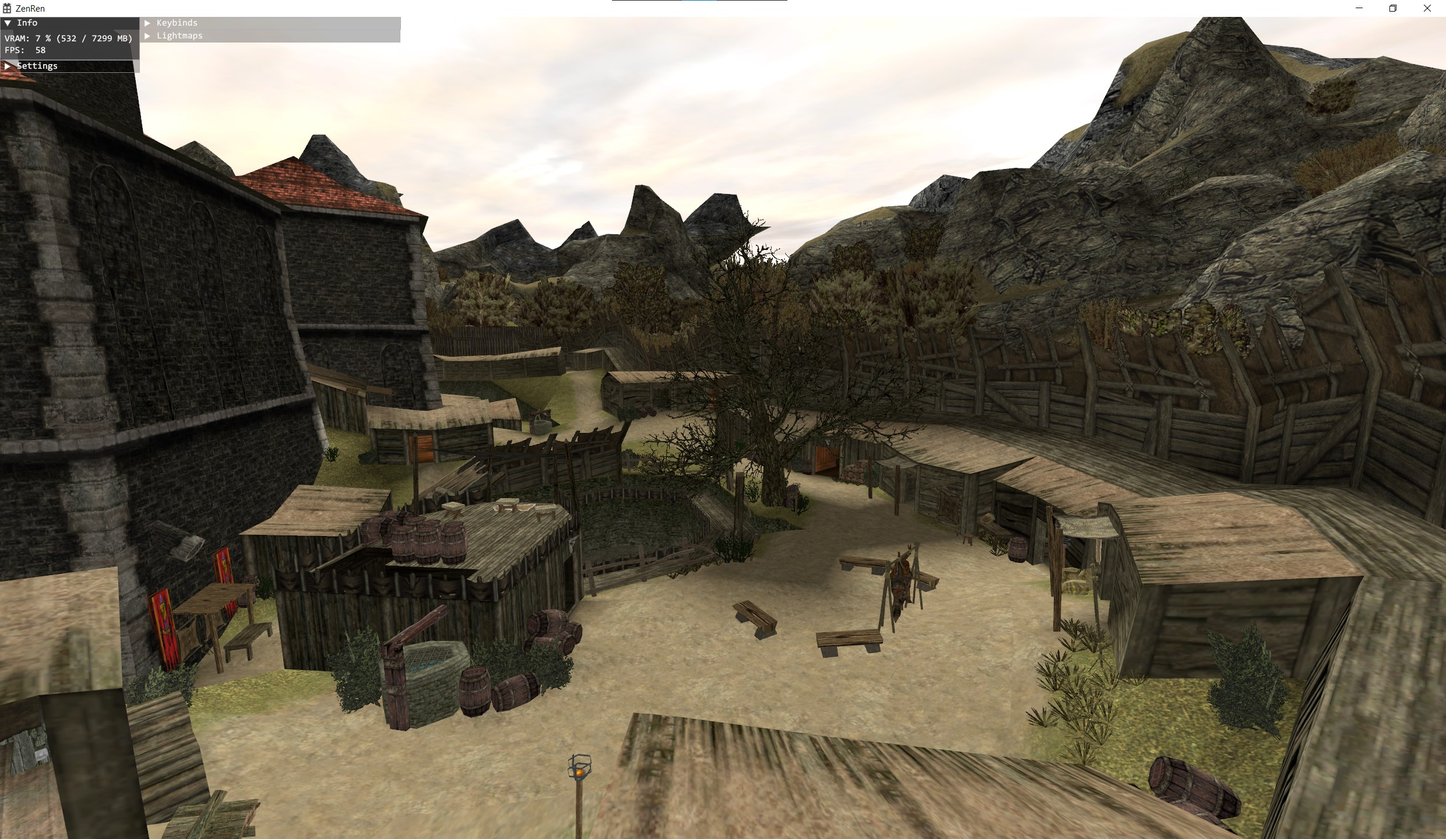
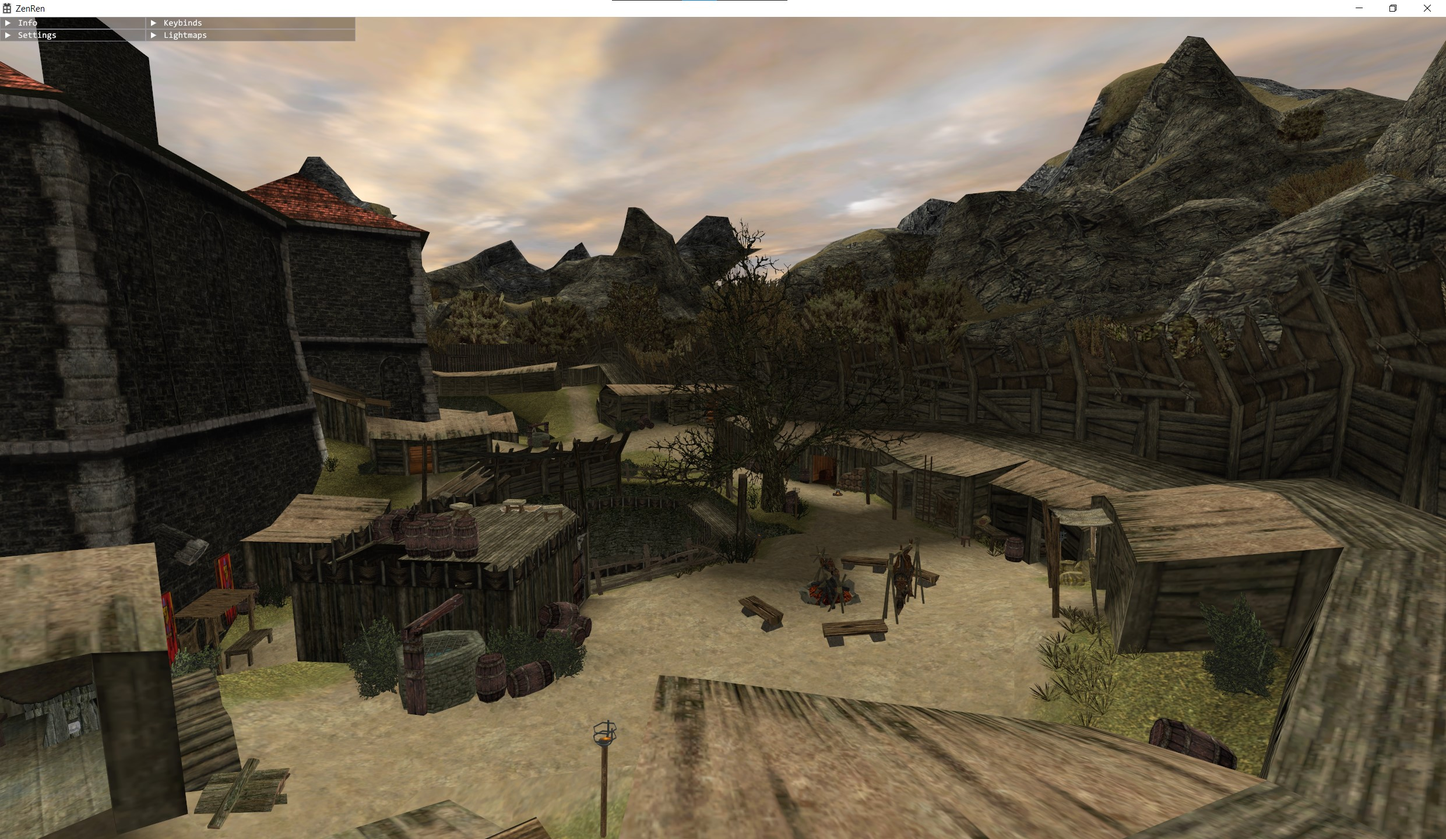
Readme update

diff --git a/README.md b/README.md
@@ -1,7 +1,7 @@
 # ZenRen
 
 
-Simple, high performance DirectX11.1 renderer for Gothic assets (VDF or single files).
+High performance DirectX11 viewer/renderer for Gothic assets (VDF or single files).
 <br>Attempts to closely recreate original G1/G2-AddOn look and lighting.
 
 ### Download (Windows)
@@ -9,12 +9,16 @@ Simple, high performance DirectX11.1 renderer for Gothic assets (VDF or single f
 
 ### Currently supports
 - Worldmesh (ZEN)
-- Static Objects (VOBs)
-- Static Light
-  - Lightmaps
-  - Per-Vertex Colors
-  - Per-Vob Static Light Accumulation (Color & Direction)
-- Time-Of-Day Skylight
+  - Static Light
+    - Indoor: Lightmaps
+    - Outdoor: Per-Vertex Baked Brightness 
+- Static Objects (VOBs, MOBs)
+  - Static Light
+    - Indoor: Static Voblight Accumulation (Color & Direction, Visibility Ray Testing)
+    - Outdoor: Per-Vob Color from Ground Face
+- Sky
+  - Time-Of-Day Skylight
+  - Sky Layer Animation
 - Asset File Formats
   - Level: VDF
   - Objects: VDF
@@ -22,27 +26,34 @@ Simple, high performance DirectX11.1 renderer for Gothic assets (VDF or single f
 
 ### Features
 - Frame Limiter
-- Simple Forward Renderer
+- Forward Renderer
   - Linear Colors
-  - MSAA, up to 4x SMAA
+  - MSAA
   - Transparency Multisampling (Alpha-To-Coverage with Sharpening)
-  - Resolution Scaling
-  - Depth Prepass
+  - Resolution Scaling (up to 4x SSAA equivalent)
 - Postprocessing
   - Tonemapping
   - Gamma, Brightness, Contrast
-- UI (ImGUI)
+- UI
   - High DPI Aware
 
 ### TODO
-- Sky
-- Water / Morph-Meshes
+- Effects
 - Dynamic Lights
-- Dynamic Objects (MOBs)
+- Dynamic Objects
+  - Light Updates
+- Transparent Surfaces (Water)
+- Distance Fog
+- Sky Celestials (Sun, Moon)
 - Asset File Formats
   - Level: ZEN (outside VDF), OBJ
   - Objects: 3DS, OBJ
 - Loading single objects without level
+
+### Non-Goals
+- Animations
+  - Morph-Meshes
+  - Skeletal Animations
 
 ### Options
 <pre>
@@ -74,6 +85,6 @@ This project's first-party code is "source available" for now.
 - lib/g3log - Public Domain / Unlicense
 - lib/imgui - MIT
 - lib/magic_enum - MIT
+- lib/octree_attcs - MIT
 - lib/tinyobj - MIT
 - lib/ZenKit - MIT
-- lib/ZenLib - MIT
